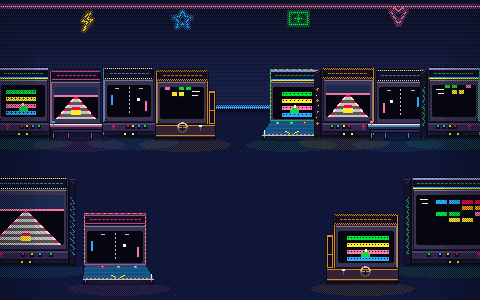
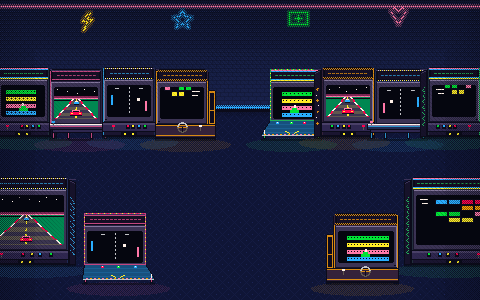
102 T206: the road screens read as roads; the first-run card stands out (neon frame, dimmed hall); card edge measured; v2 pictures

Changed region(s): [[0.0, 0.63, 0.1562, 0.84], [0.0938, 0.27, 0.2188, 0.42], [0.6562, 0.27, 0.7812, 0.39]]

diff --git a/scripts/check-102-welcome.js b/scripts/check-102-welcome.js
@@ -7,6 +7,7 @@
  *     blank     the world's rule for the hall overridden (the page behind the card is the plain dark one): "the first-run page names welcome.webp as its picture"
  *     veil      the rule kept, but a dark sheet painted over the picture: "the picture is painted beside the card"
  *     glass     the card's surface made see-through (its text would then lie on the picture): "the card's surface is opaque"
+ *     flat      the neon border and glow removed (the card as it was): "the card's border reads at 3:1 against the picture round it"
  *     dim       one line of the card's text in a colour that does not read on the card: "the card's text reads at 4.5:1"
  *   SHOTS_OUT=<dir>         also writes 102-welcome-<w>x<h>.png (to look at)
  *
@@ -23,6 +24,8 @@ const { helpers, jsLiteral } = require('./driver-helpers');
 const SIZES = [[1440, 900], [1280, 800]];
 const MUTANT = process.env.WELCOME_MUTANT || '';
 const MIN_RATIO = 4.5;
+const MIN_EDGE = 3; /* the card's border against the picture round it */
+const MIN_SURFACE = 1.1; /* the card's surface against the picture round it: it is a dark card on a dimmed hall, so the border carries the edge */
 
 /* page code, run as written (no value is interpolated into it) */
 const PICTURE_READ = `(async()=>{
@@ -49,7 +52,8 @@ const CARD_READ = `(()=>{
     const mix=f.slice(0,3).map((v,i)=>v*f[3]+b.c[i]*(1-f[3])),l1=L(mix),l2=L(b.c),r=(Math.max(l1,l2)+0.05)/(Math.min(l1,l2)+0.05);
     if(r<worst.ratio)worst={ratio:r,text:e.textContent.trim().slice(0,40),tag:e.tagName.toLowerCase()+'.'+String(e.className).trim()}}
   const f=document.getElementById('floor').getBoundingClientRect(),r=card.getBoundingClientRect();
-  return {cardAlpha:cs[3],lines:lines.length,worst,translucent,floor:{l:f.left,t:f.top,r:f.right,b:f.bottom},card:{l:r.left,t:r.top,r:r.right,b:r.bottom},dpr:devicePixelRatio};
+  const cst=getComputedStyle(card),bw=parseFloat(cst.borderTopWidth)||0,bc=rgba(cst.borderTopColor);
+  return {border:{w:bw,c:bc,style:cst.borderTopStyle},surface:cs,cardAlpha:cs[3],lines:lines.length,worst,translucent,floor:{l:f.left,t:f.top,r:f.right,b:f.bottom},card:{l:r.left,t:r.top,r:r.right,b:r.bottom},dpr:devicePixelRatio};
 })()`;
 
 const addStyle = (css) => `(()=>{const s=document.createElement('style');s.textContent=${jsLiteral(css)};document.head.appendChild(s)})()`;
@@ -57,6 +61,7 @@ const MUTANT_CSS = {
   blank: 'html[data-world="retro"] #floor:has(> #stage > .welcome){background:#0c0816!important}',
   veil: '#floor:has(> #stage > .welcome){position:relative}#floor:has(> #stage > .welcome)::before{content:"";position:absolute;inset:0;background:#0c0816;z-index:0;pointer-events:none}#stage > .welcome{position:relative;z-index:1}',
   glass: '#stage > .welcome{background:rgba(255,255,255,.12)!important}',
+  flat: '#stage > .welcome{border-color:transparent!important;box-shadow:none!important;background:var(--surface)!important}',
   dim: '#stage > .welcome .wl-note{color:#3a3a4a!important}',
 };
 
@@ -97,6 +102,7 @@ module.exports = async (ctx) => {
     assert.ok(x1 - x0 >= 40 && y1 - y0 >= 200, `${tag}: there is room beside the card to look at (${x1 - x0} x ${y1 - y0} px)`);
     let px = null;
     const painted = async () => {
+      if (!(await js(`!!document.querySelector('#stage .welcome')`))) { px = { colours: 0, lit: 0, n: 0, gone: true }; return false; } // the first-run page itself, not a page that came after it
       const img = await H.wc().capturePage({ x: x0, y: y0, width: x1 - x0, height: y1 - y0 });
       const { width, height } = img.getSize(), b = img.toBitmap(), seen = new Set(); let lit = 0;
       for (let i = 0; i < width * height; i++) { const bl = b[i * 4], g = b[i * 4 + 1], r = b[i * 4 + 2]; seen.add((r << 16) | (g << 8) | bl); if (Math.max(r, g, bl) > 150) lit++; }
@@ -104,10 +110,27 @@ module.exports = async (ctx) => {
       return px.colours >= 24 && px.lit >= 100;
     };
     // a capture can answer with the frame before the page was painted: wait for the painted state, bounded (a veiled page never gets there)
-    let ok = false; const limit = Date.now() + 6000;
-    while (!ok && Date.now() < limit) { ok = await painted(); if (!ok) await ctx.sleep(150); }
+    // two frames have been drawn since the page's last change, and two captures in a row must show the hall (one capture can be the frame from before a change: a veil put on just now)
+    await js(`new Promise((r) => requestAnimationFrame(() => requestAnimationFrame(r)))`);
+    let ok = false, streak = 0; const limit = Date.now() + 6000;
+    while (!ok && Date.now() < limit) { streak = (await painted()) ? streak + 1 : 0; ok = streak >= 2; if (!ok) await ctx.sleep(150); }
     assert.ok(ok, `${tag}: the picture is painted beside the card (the capture shows ${px && px.colours} colours and ${px && px.lit} lit pixels of ${px && px.n}; the plain page is one flat colour)`);
+    // the card's edge against the picture round it: real pixels in a ring 6..14 px outside the card (the page as painted, glow included)
+    const M = 14, SKIP = 6, rx = Math.round(cd.card.l) - M, ry = Math.round(cd.card.t) - M, rw = Math.round(cd.card.r - cd.card.l) + 2 * M, rh = Math.round(cd.card.b - cd.card.t) + 2 * M;
+    const ringImg = await H.wc().capturePage({ x: rx, y: ry, width: rw, height: rh });
+    const rs = ringImg.getSize(), rb = ringImg.toBitmap(), sc = rs.width / rw, lum = (r, g, b) => { const f = (v) => { v /= 255; return v <= 0.03928 ? v / 12.92 : Math.pow((v + 0.055) / 1.055, 2.4); }; return 0.2126 * f(r) + 0.7152 * f(g) + 0.0722 * f(b); };
+    const ringL = [];
+    for (let yy = 0; yy < rs.height; yy++) for (let xx = 0; xx < rs.width; xx++) {
+      const dx = xx / sc, dy = yy / sc, inner = dx >= M - SKIP && dx < rw - (M - SKIP) && dy >= M - SKIP && dy < rh - (M - SKIP); if (inner) continue;
+      const i = (yy * rs.width + xx) * 4; ringL.push(lum(rb[i + 2], rb[i + 1], rb[i]));
+    }
+    ringL.sort((a, b) => a - b); const medL = ringL[ringL.length >> 1], ratio = (a, b) => (Math.max(a, b) + 0.05) / (Math.min(a, b) + 0.05);
+    const bl = cd.border.w >= 1 && cd.border.c[3] === 1 && cd.border.style !== 'none' ? lum(cd.border.c[0], cd.border.c[1], cd.border.c[2]) : medL;
+    const edgeRatio = ratio(bl, medL), surfRatio = ratio(lum(cd.surface[0], cd.surface[1], cd.surface[2]), medL);
+    console.log(`[102-welcome] ${tag}: border ${edgeRatio.toFixed(2)}:1, surface ${surfRatio.toFixed(2)}:1 against the picture round the card (median of ${ringL.length} pixels)`);
     if (process.env.SHOTS_OUT) await H.shot(path.join(OUT, `102-welcome-${w}x${h}.png`), { prep: 'calm', settle: true, tag: 'welcome', what: `102-welcome-${w}x${h}` });
+    assert.ok(edgeRatio >= MIN_EDGE, `${tag}: the card's border reads at 3:1 against the picture round it (${edgeRatio.toFixed(2)}:1, border ${cd.border.w}px)`);
+    assert.ok(surfRatio >= MIN_SURFACE, `${tag}: the card's surface stands off the picture round it (${surfRatio.toFixed(2)}:1, at least ${MIN_SURFACE}:1)`);
     console.log(`[102-welcome] ${tag} ok: ${pic.colours} colours, worst text ${cd.worst.ratio.toFixed(1)}:1, ${px.colours} colours beside the card`);
   }
   console.log('[102-welcome] PASS');

diff --git a/src/renderer/realoffice/worlds/retro/world.css b/src/renderer/realoffice/worlds/retro/world.css
@@ -107,8 +107,9 @@
 .ro[data-world="retro"] .ro-ctx .ro-ck{stroke-width:calc(max(4px,2px*var(--ro-g)) + 2px)}
 
 /* spec 102 FR-352, 097 FR-118 first run: the hall is the page behind the card (welcome.webp, drawn in code), nearest pixel; the card keeps the app's own opaque surface, so its text is read against the app's token, never against the picture */
-html[data-world="retro"] #floor:has(> #stage > .welcome){background:#0c0816 url(welcome.webp) center/cover no-repeat;image-rendering:pixelated}
-html[data-world="retro"] #stage > .welcome{background:var(--surface);border-color:var(--line-2);box-shadow:var(--shadow-pop)}
+html[data-world="retro"] #floor:has(> #stage > .welcome){background:radial-gradient(ellipse 52% 60% at 50% 46%,color-mix(in srgb,var(--bg) 92%,transparent) 0,color-mix(in srgb,var(--bg) 70%,transparent) 55%,transparent 100%),#0c0816 url(welcome.webp) center/cover no-repeat;image-rendering:pixelated}
+/* the card is the first thing seen: the lighter raised surface, a neon frame in the arcade's own tokens (pink border, yellow outer ring) on the dimmed hall; opaque, nothing moves */
+html[data-world="retro"] #stage > .welcome{background:var(--raised);border:3px solid var(--sage-ink);outline:2px solid var(--focus);outline-offset:0;box-shadow:var(--shadow-pop)}
 @media (forced-colors:active){html[data-world="retro"] #floor:has(> #stage > .welcome){background:Canvas}}
 /* spec 102 FR-264, 097 FR-118 first run: no counts in the top bar (all zero); the space stays, so the bar does not move */
 html[data-world="retro"] body:has(#stage > .welcome) #stats{visibility:hidden}

diff --git a/scripts/build-arcade-pack.py b/scripts/build-arcade-pack.py
@@ -388,12 +388,18 @@ def screen_art(c, x, y, w, h, kind):
                 col = (P['lime'], P['yellow'], P['pink'], P['blue'])[r]; X, Y = x + 5 + q * ((w - 10) // 7), y + 5 + r * 7
                 R(col, X, Y, 6, 4); R('#05060f', X + 1, Y + 1, 1, 1); R('#05060f', X + 4, Y + 1, 1, 1)
         R(P['cream'], x + w // 2 - 1, y + h - 14, 2, 5); R(P['lime'], x + w // 2 - 4, y + h - 9, 9, 3); R(P['lime'], x + w // 2 - 2, y + h - 11, 5, 2)
-    elif kind == 1:                                                   # a road running to a horizon
-        R(P['navy'], x, y, w, h // 3); R(P['pink'], x, y + h // 3 - 2, w, 2)
-        for i, Y in enumerate(range(y + h // 3, y + h)):
-            half = 2 + (Y - y - h // 3 + 1) * (w // 2 - 4) // (h - h // 3)
-            R(P['dg'] if (Y // 3) % 2 else P['lg'], x + w // 2 - half, Y, 2 * half, 1); R(P['red'] if (Y // 3) % 2 else P['cream'], x + w // 2 - half, Y, 2, 1); R(P['red'] if (Y // 3) % 2 else P['cream'], x + w // 2 + half - 2, Y, 2, 1)
-        R(P['yellow'], x + w // 2 - 5, y + h - 9, 10, 5); R(P['red'], x + w // 2 - 4, y + h - 12, 8, 3)
+    elif kind == 1:                                                   # a road running to a horizon: dark sky, a horizon line, a two-edged road in perspective, a dashed centre line, two cars
+        hz = y + max(8, h * 2 // 5); cx = x + w // 2; rows = y + h - hz
+        for X in range(x + 3, x + w - 3, 9): R(P['cream'], X + (X // 9) % 3, y + 2 + (X // 9) % 3 * 2, 1, 1)          # a few stars
+        R(P['plum'], x, hz - 3, w, 2); R(P['pink'], x, hz - 1, w, 1)                                                    # the glow on the horizon
+        R(P['green'], x, hz, w, rows); R('#05060f', x, hz + 1, w, 1)                                                    # the verge, dark at the horizon
+        for Y in range(hz, y + h):
+            t = (Y - hz + 1) / rows; half = max(2, round(2 + t * (w // 2 - 4))); band = int(t * 7) % 2                  # the road widens to the foot of the glass
+            R(P['dg'] if band else '#3b3550', cx - half, Y, 2 * half, 1)
+            R(P['red'] if band else P['cream'], cx - half - 1, Y, 2, 1); R(P['red'] if band else P['cream'], cx + half - 1, Y, 2, 1)
+            if int(t * 9) % 2 == 0: R(P['yellow'], cx - (1 if t > .5 else 0), Y, 1 + (1 if t > .5 else 0), 1)           # dashes, longer near us
+        R(P['k'], cx - 2, hz + 5, 5, 1); R(P['blue'], cx - 2, hz + 3, 5, 2); R(P['cream'], cx - 1, hz + 2, 3, 1)       # a far car, going away
+        R(P['k'], cx - 6, y + h - 4, 12, 1); R(P['red'], cx - 6, y + h - 7, 12, 3); R(P['pink'], cx - 4, y + h - 9, 8, 2); R(P['k'], cx - 3, y + h - 8, 6, 1); R(P['yellow'], cx - 5, y + h - 6, 2, 1); R(P['yellow'], cx + 3, y + h - 6, 2, 1)   # our car from behind, its lights on
     elif kind == 2:                                                   # two bats and a ball
         for Y in range(y + 2, y + h - 2, 4): R(P['lg'], x + w // 2, Y, 1, 2)
         R(P['blue'], x + 4, y + h // 3, 2, 10); R(P['pink'], x + w - 6, y + h // 2, 2, 10); R(P['cream'], x + w // 2 + 8, y + h // 2 - 3, 3, 3)
